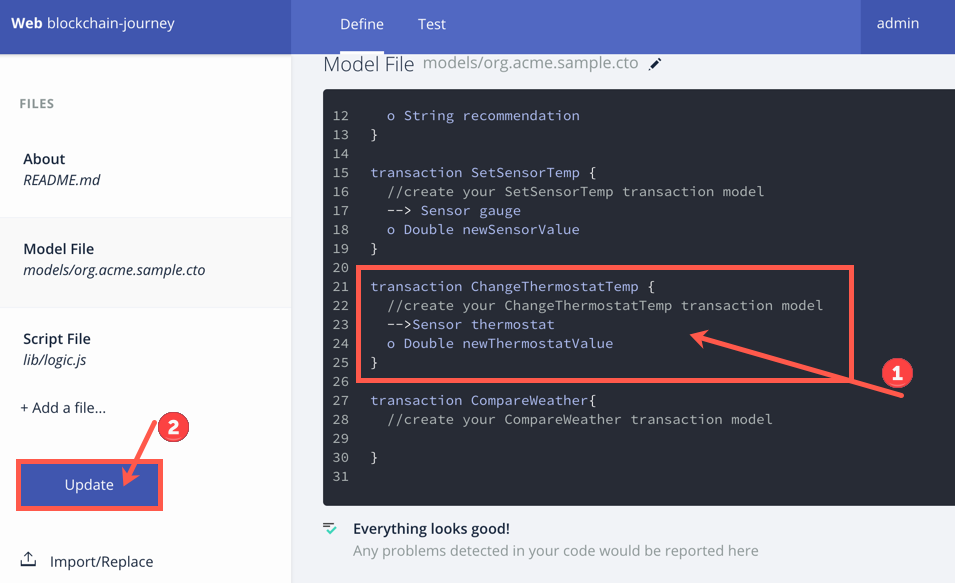
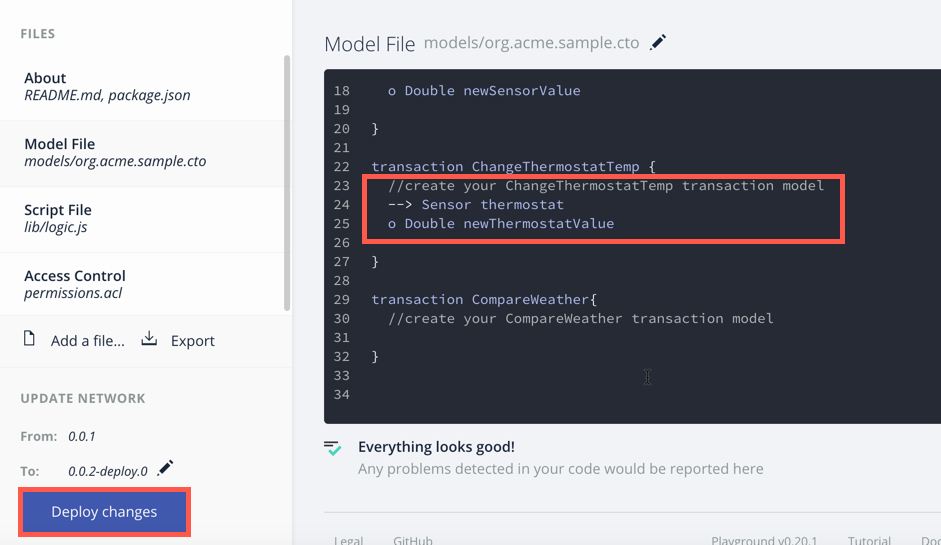
Update README.md

diff --git a/README.md b/README.md
@@ -1,4 +1,3 @@
-*Read this in other languages: [中国](README-cn.md).*
 # Hyperledger Fabric and Hyperledger Composer on LinuxONE
 
 ## Architecture
@@ -8,8 +7,7 @@
 
 This journey will guide you through the following process.
 
-1. Request access to the LinuxONE Community Cloud.
-2. Create your Linux guest on the LinuxONE Community Cloud.
+1. Access your LinuxONE guest.
 3. Setup and verify of your blockchain environment.
 4. Create a blockchain project in Hyperledger Composer.
 5. Interact with blockchain and third party APIs through Composer Rest Server and NodeRed.
@@ -296,10 +294,20 @@ In this section of the journey you will request access to the LinuxONE Community
 16. Let's keep adding the files to the Composer Playground.  **Repeat steps 11-15 to add the following files**:
 
 * *org.acme.sample.cto* — This is located in the models folder. In this exercise you'll use this file to create a model for your asset and transactions. You could also create participants in this file. This is similar to creating a Java class and defining what you would need in the class.
+
 * *logic.js* — This is located in the lib folder. This is a JavaScript file that becomes the brains of your application. In this file is code, your smart contract, that defines how a transaction can happen. This is similar to Java methods.
+
 * **Add last:** *permissions.acl* — This is where you would limit permissions for participants in a blockchain network.
 
-17. Your files are all now loaded into Composer Playground. **Click** *Update* on the left side of the browser. 
+* **Remove model.cto:** -- This is the empty model file that came with the sample. We will delete it to avoid any potential problems.
+
+  * **Click** on model.cto
+
+  * **Click** on the trash can icon to remove it.
+
+    ![Remove model.cto](images/RemoveModelCTO.png)
+
+17. Your files are all now loaded into Composer Playground. **Click** *DeployChanges* on the left side of the browser. 
 
    ![Click Deploy.](images/InitialDeploy.png)
 
@@ -329,7 +337,7 @@ In this section of the journey you will request access to the LinuxONE Community
 
     * `o String recommendation`— this will be populated based on the `CompareWeather` transaction.
 
-    * **Click** *Update* to save changes.
+    * **Click** *Deploy Changes* to save changes.
 
       ![Sensor model](images/SensorModel.png)
 
@@ -339,7 +347,7 @@ In this section of the journey you will request access to the LinuxONE Community
 
     * `o Double newSensorValue` — This is the variable that will be set by the temperature passed into the transaction from the NodeRed Sensor for picking up temperature.
 
-    * *Click** *Deploy* to save changes.
+    * **Click** *Deploy Changes* to save changes.
 
       ![Create SetSensorTemp model](images/SetSensorTempModel.png)
 
@@ -349,7 +357,7 @@ In this section of the journey you will request access to the LinuxONE Community
 
     * `o Double newThermostatValue` — This allows for a new, proposed value to be sent into the transaction. In the logic tab, we will use this value to compare to what the gauge says and decide if the thermostat value should be adjusted.
 
-    * **Click** *Update* to save changes.
+    * **Click** *Deploy Changes* to save changes.
 
       ![Create ChangeThermostatTemp model](images/ChangeThermostatModel.png)
 
@@ -360,7 +368,7 @@ In this section of the journey you will request access to the LinuxONE Community
 
     * `o Double feelsLike`— the variable to store the feels_like value from Weather.com.
 
-    * **Click** *Update* to save changes.
+    * **Click** *Deploy Changes* to save changes.
 
       ![create CompareWeather model](images/CompareWeatherModel.png)
 
